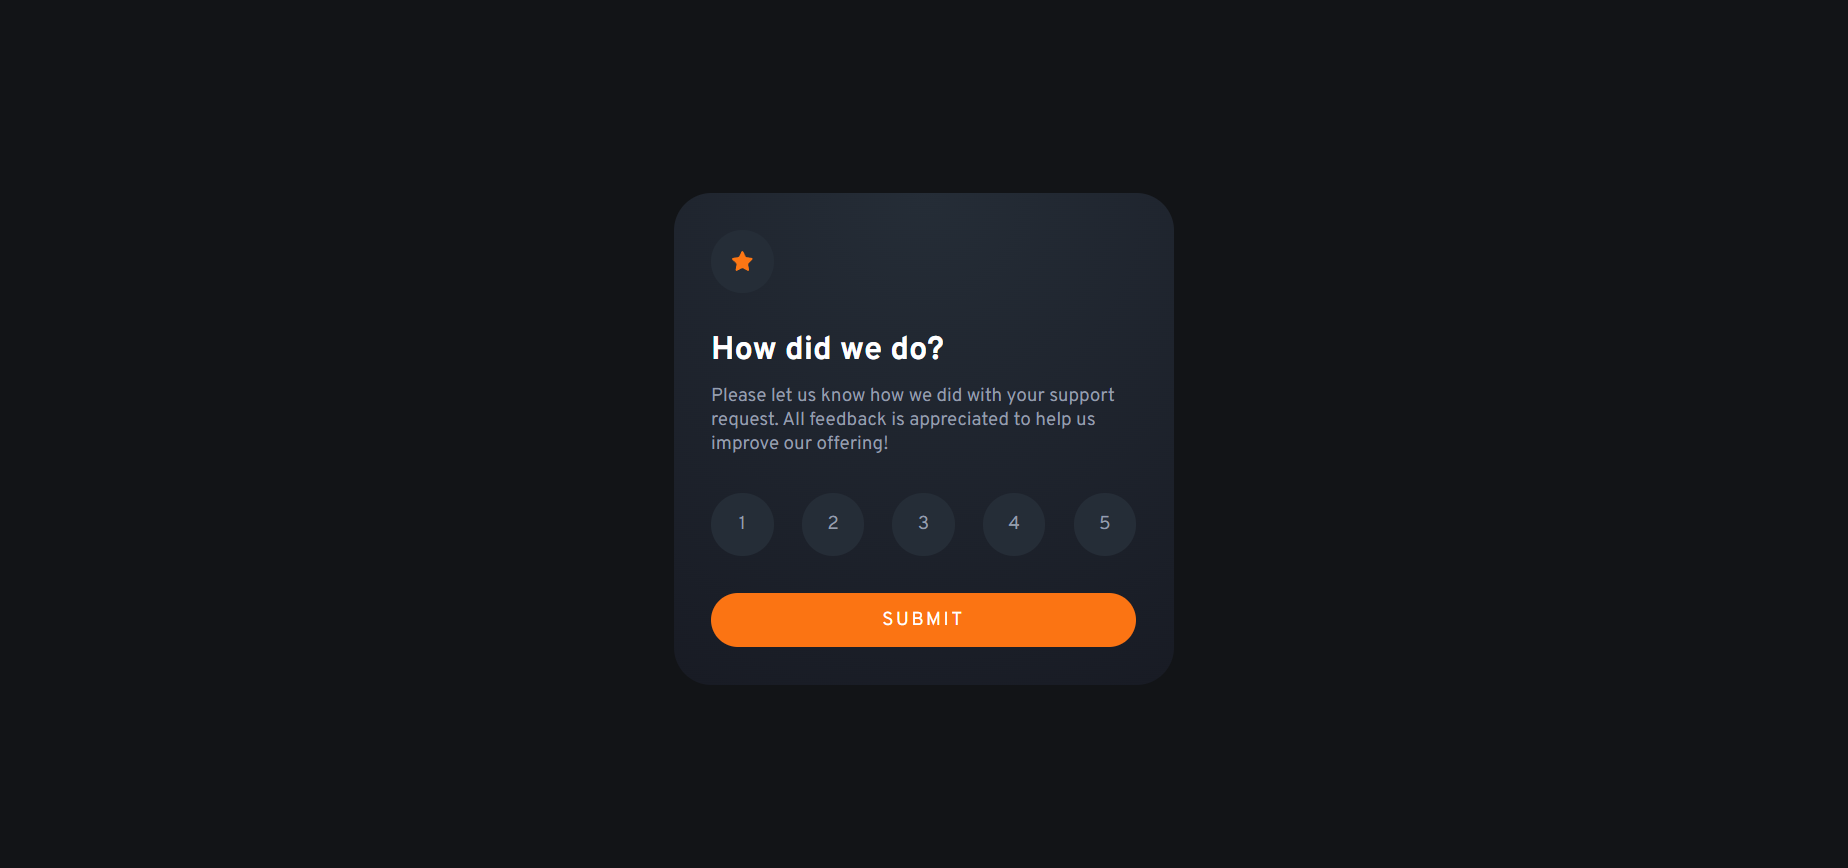
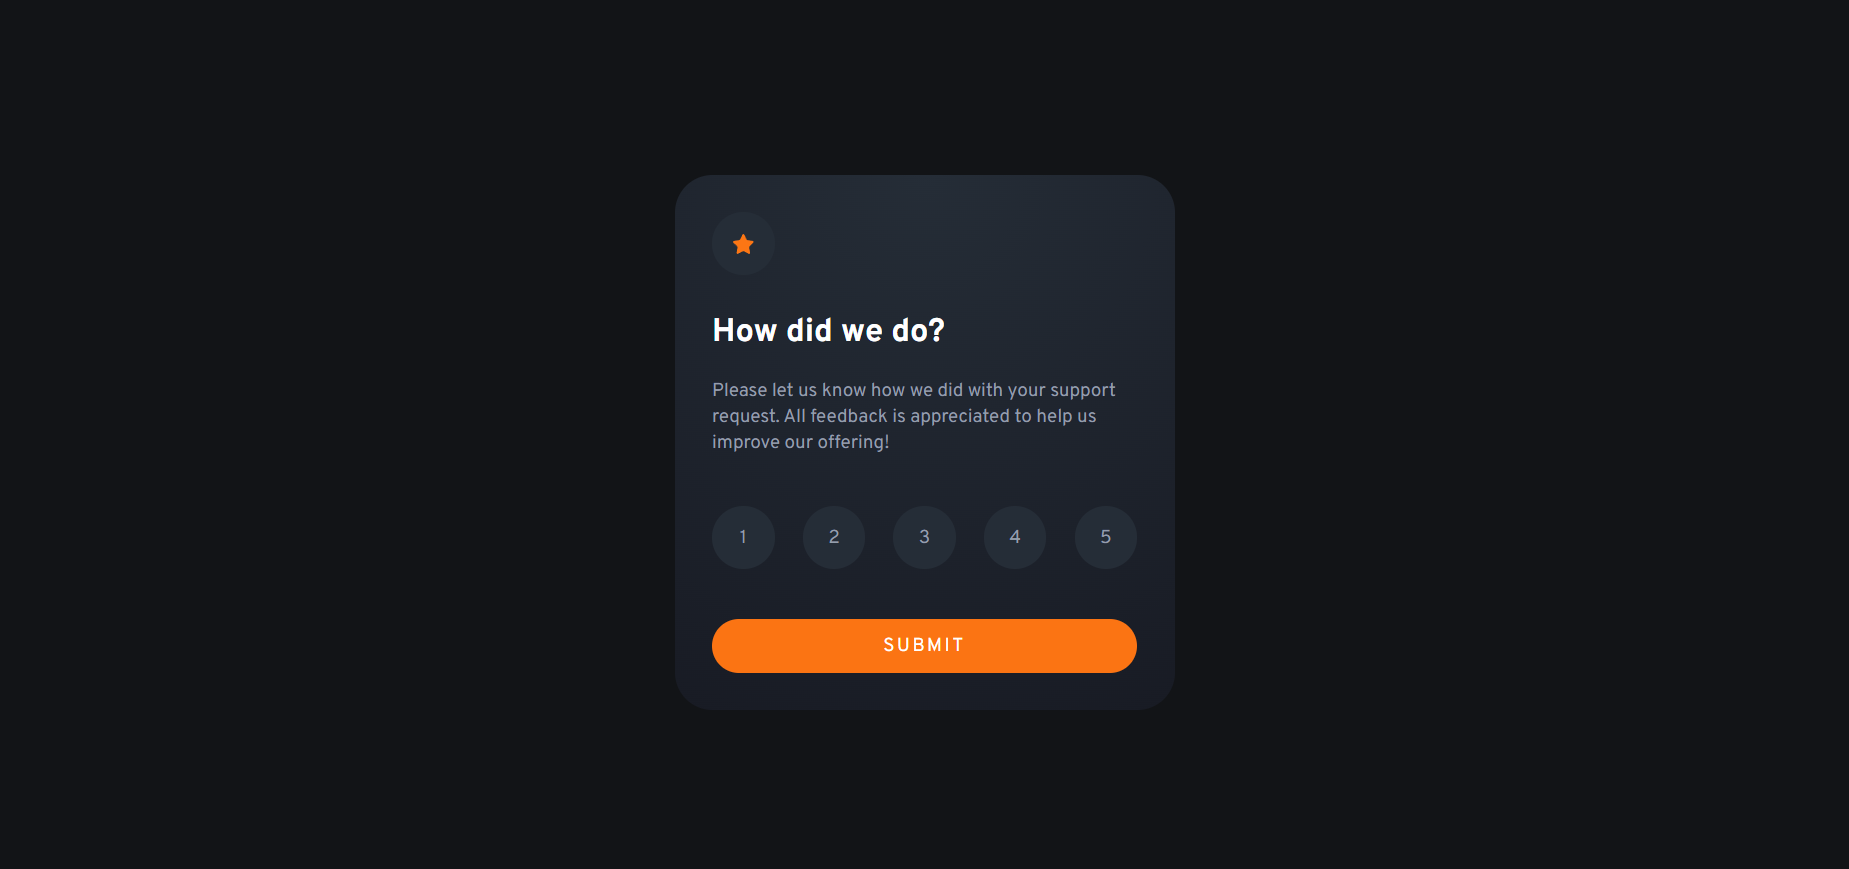
Updated

diff --git a/index.html b/index.html
@@ -46,8 +46,8 @@
       }
       .thank-you-component {
         text-align: center;
-        padding-top: 44px;
-        padding-bottom: 44px;
+        padding-top: 54px;
+        padding-bottom: 54px;
         display: none;
       }
       .title p {
@@ -59,7 +59,8 @@
       .description p {
         color: hsl(217, 12%, 63%);
         font-size: 15px;
-        padding-top: 10px;
+        padding-top: 20px;
+        line-height: 1.3rem;
       }
       .submit-button {
         background-color: hsl(25, 97%, 53%);
@@ -83,7 +84,7 @@
         display: flex;
         align-items: center;
         justify-content: space-between;
-        padding: 30px 0px;
+        padding: 40px 0px;
       }
       .ratings .rating {
         background-color: hsl(213, 19%, 18%);
@@ -133,8 +134,8 @@
           margin: 30px;
         }
         .thank-you-component {
-          padding-top: 50px;
-          padding-bottom: 50px;
+          padding-top: 48px;
+          padding-bottom: 48px;
         }
         .ratings .rating {
           width: 40px;
@@ -147,7 +148,6 @@
         }
         .description p {
           font-size: 13px;
-          line-height: 1.3rem;
         }
         .submit-button {
           font-size: 14px;
